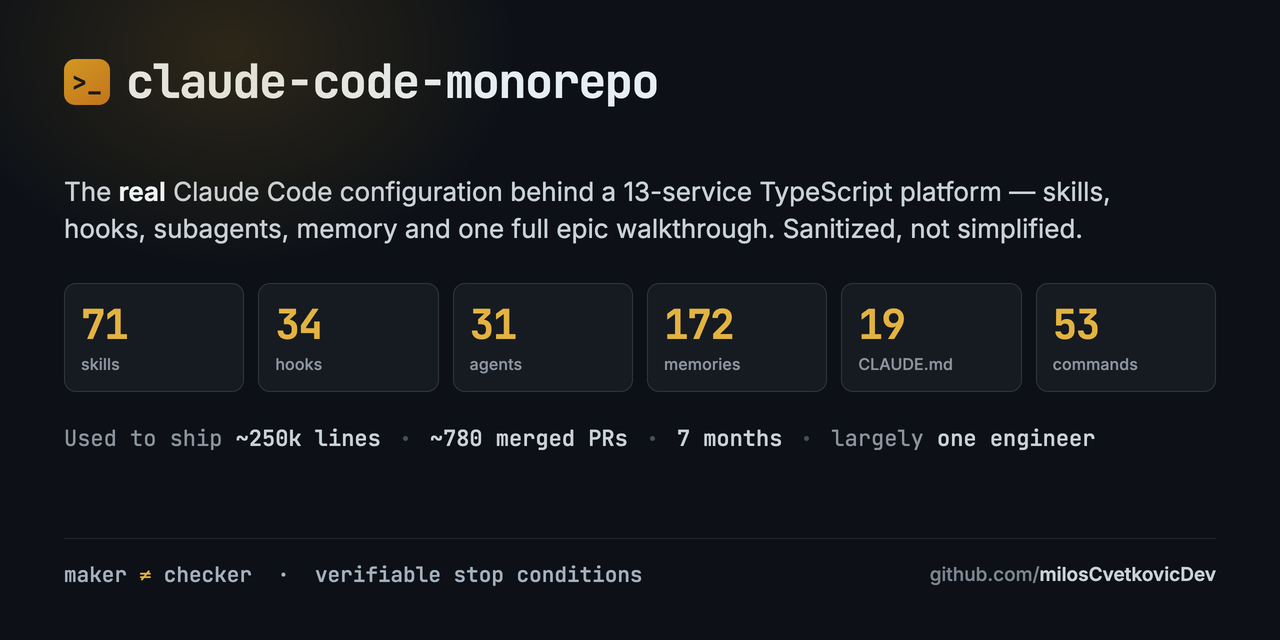
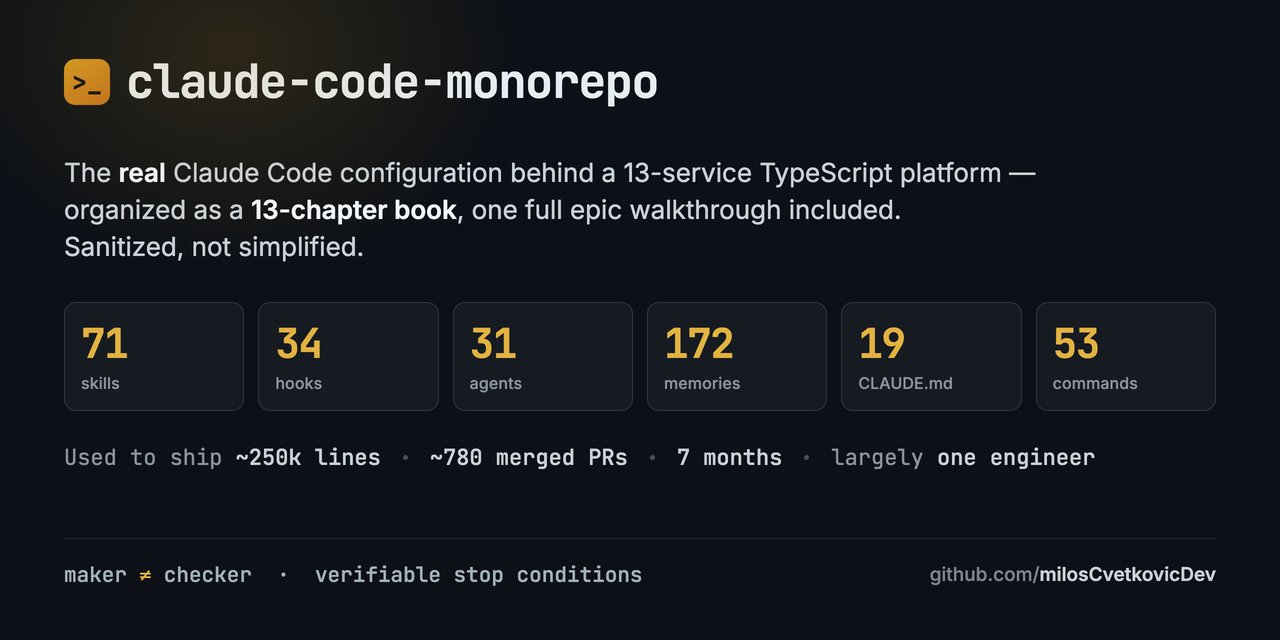
Social preview: mention the 13-chapter book

diff --git a/docs/images/social-preview.html b/docs/images/social-preview.html
@@ -100,7 +100,8 @@
   <div class="mid">
   <p class="lede">
     The <b>real</b> Claude Code configuration behind a 13-service TypeScript platform —
-    skills, hooks, subagents, memory and one full epic walkthrough. Sanitized, not simplified.
+    organized as a <b>13-chapter book</b>, one full epic walkthrough included.
+    Sanitized,&nbsp;not&nbsp;simplified.
   </p>
 
   <div class="grid">
